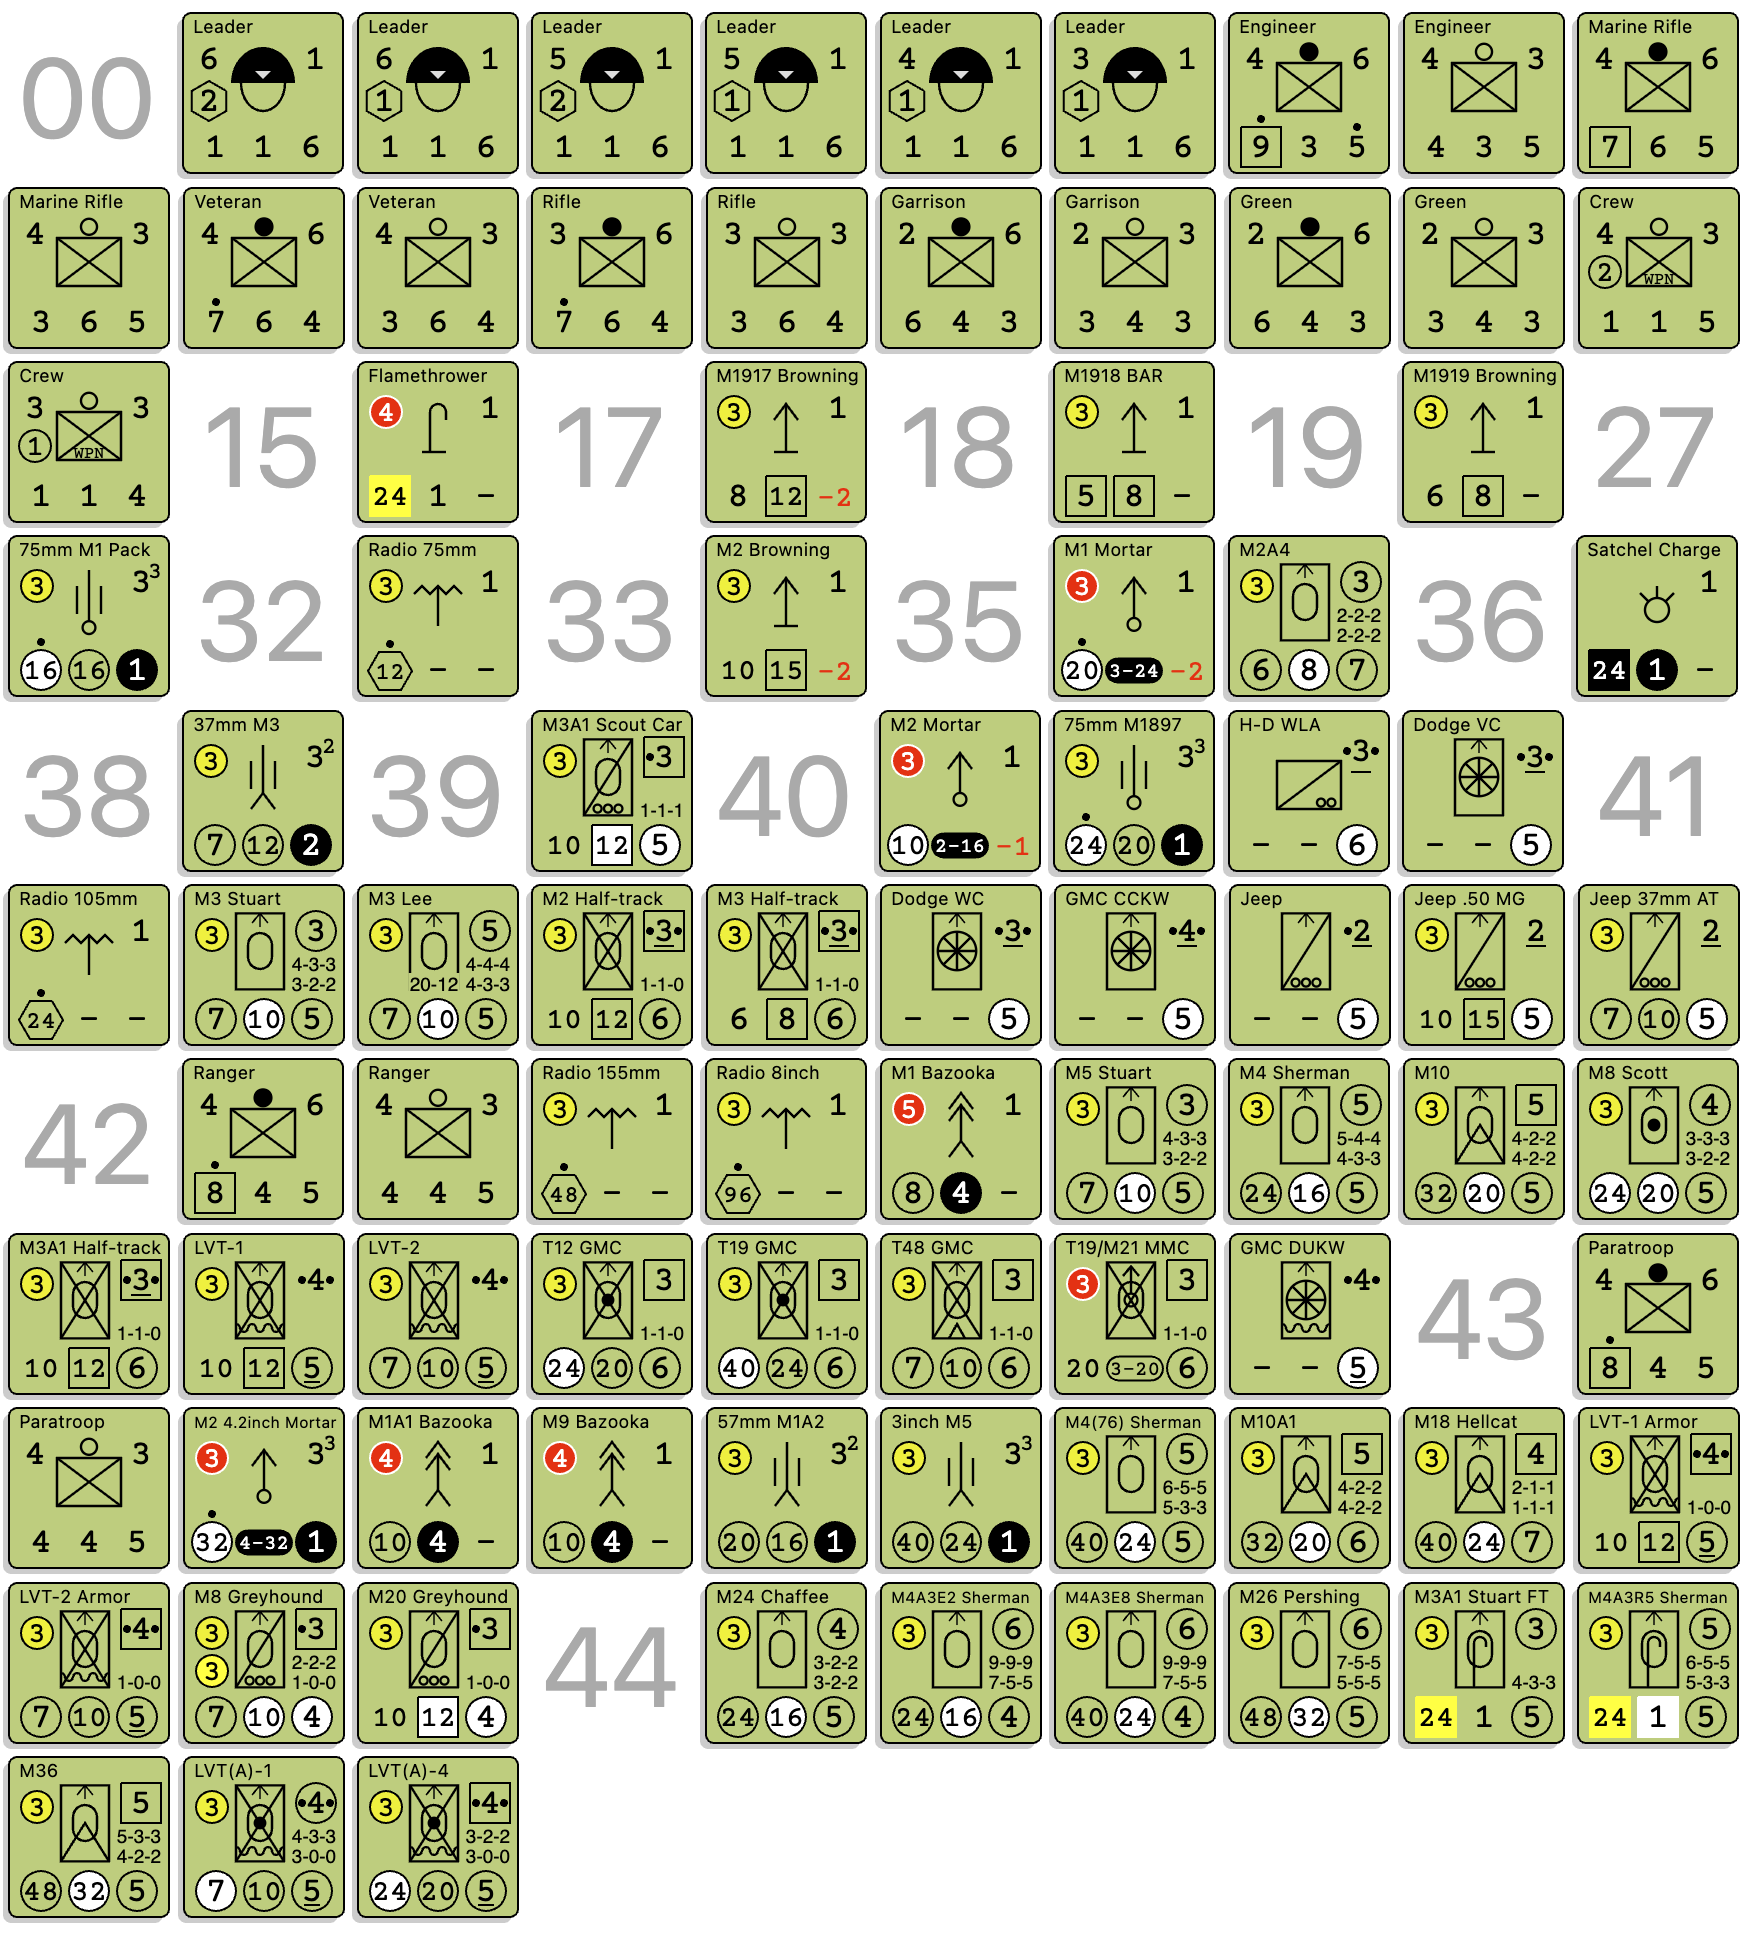
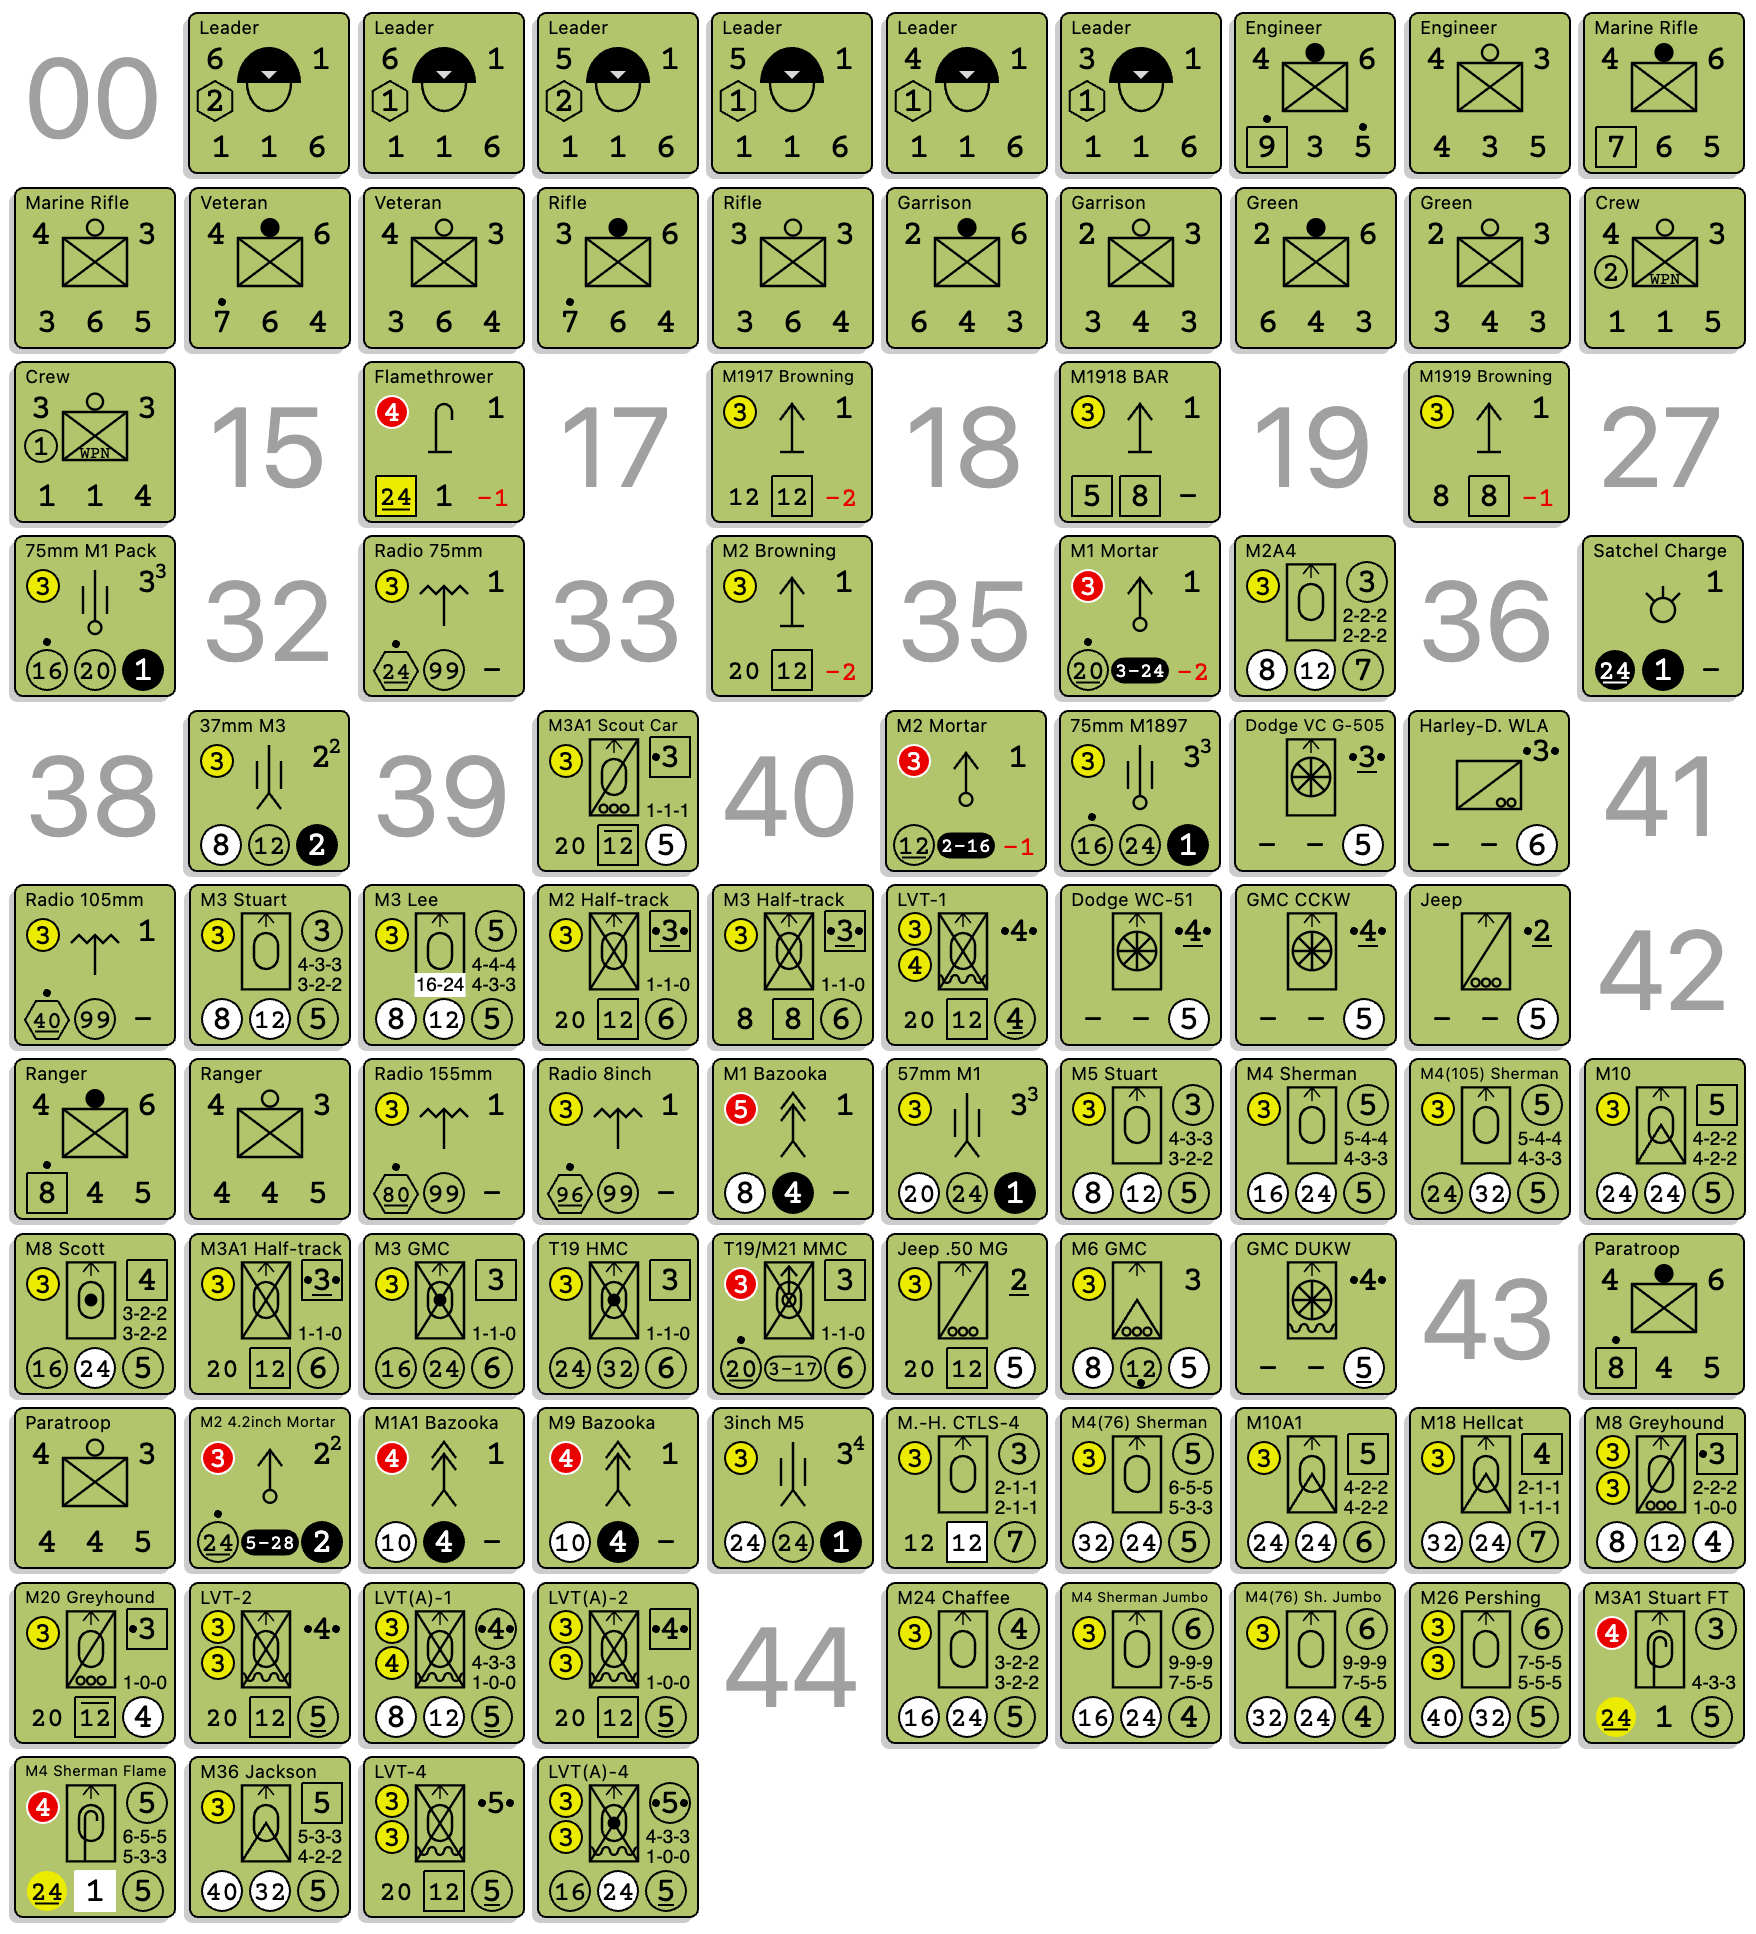
Fixes, updated example images

diff --git a/app/javascript/components/game/GameDisplay.tsx b/app/javascript/components/game/GameDisplay.tsx
@@ -341,6 +341,7 @@ export default function GameDisplay() {
     if (game.k?.gameState?.type === stateType.Deploy) {
       game.k.deployState.dir(d)
       game.k.gameState.finish()
+      game.k.deployState.needsDirection = false
     } else if (game.k?.gameState?.type === stateType.Fire) {
       game.k.fireState.rotate(d)
     } else if (game.k?.gameState?.type === stateType.Move) {

diff --git a/app/models/utility/scenario/units/definitions.rb b/app/models/utility/scenario/units/definitions.rb
@@ -210,23 +210,23 @@ module Utility
               "lahti_l_39": { fp: 3, rng: 6, mv: -2, tgt: true, at: true, fix: 18, sz: 1 },
               "type_97_ac": { fp: 3, rng: 4, mv: -2, tgt: true, at: true, fix: 18, sz: 1 },
               # Artillery
-              "radio_75mm": { fp: 24, rng: 99, mv: -1, smk: true, off: true, area: true, fix: 18, sz: 1 },
-              "radio_76mm": { fp: 24, rng: 99, mv: -1, smk: true, off: true, area: true, fix: 18, sz: 1 },
-              "radio_85mm": { fp: 32, rng: 99, mv: -1, smk: true, off: true, area: true, fix: 18, sz: 1 },
-              "radio_88mm": { fp: 32, rng: 99, mv: -1, smk: true, off: true, area: true, fix: 18, sz: 1 },
-              "radio_100mm": { fp: 40, rng: 99, mv: -1, smk: true, off: true, area: true, fix: 18, sz: 1 },
-              "radio_105mm": { fp: 40, rng: 99, mv: -1, smk: true, off: true, area: true, fix: 18, sz: 1 },
-              "radio_114mm": { fp: 48, rng: 99, mv: -1, smk: true, off: true, area: true, fix: 18, sz: 1 },
-              "radio_122mm": { fp: 48, rng: 99, mv: -1, smk: true, off: true, area: true, fix: 18, sz: 1 },
-              "radio_140mm": { fp: 64, rng: 99, mv: -1, smk: true, off: true, area: true, fix: 18, sz: 1 },
-              "radio_149mm": { fp: 64, rng: 99, mv: -1, smk: true, off: true, area: true, fix: 18, sz: 1 },
-              "radio_15cm": { fp: 64, rng: 99, mv: -1, smk: true, off: true, area: true, fix: 18, sz: 1 },
-              "radio_152mm": { fp: 64, rng: 99, mv: -1, smk: true, off: true, area: true, fix: 18, sz: 1 },
-              "radio_155mm": { fp: 80, rng: 99, mv: -1, smk: true, off: true, area: true, fix: 18, sz: 1 },
-              "radio_17cm": { fp: 80, rng: 99, mv: -1, smk: true, off: true, area: true, fix: 18, sz: 1 },
-              "radio_183mm": { fp: 96, rng: 99, mv: -1, smk: true, off: true, area: true, fix: 18, sz: 1 },
-              "radio_8inch": { fp: 96, rng: 99, mv: -1, smk: true, off: true, area: true, fix: 18, sz: 1 },
-              "radio_21cm": { fp: 96, rng: 99, mv: -1, smk: true, off: true, area: true, fix: 18, sz: 1 },
+              "radio_75mm": { fp: 24, rng: 99, mv: 0, smk: true, off: true, area: true, fix: 18, sz: 1 },
+              "radio_76mm": { fp: 24, rng: 99, mv: 0, smk: true, off: true, area: true, fix: 18, sz: 1 },
+              "radio_85mm": { fp: 32, rng: 99, mv: 0, smk: true, off: true, area: true, fix: 18, sz: 1 },
+              "radio_88mm": { fp: 32, rng: 99, mv: 0, smk: true, off: true, area: true, fix: 18, sz: 1 },
+              "radio_100mm": { fp: 40, rng: 99, mv: 0, smk: true, off: true, area: true, fix: 18, sz: 1 },
+              "radio_105mm": { fp: 40, rng: 99, mv: 0, smk: true, off: true, area: true, fix: 18, sz: 1 },
+              "radio_114mm": { fp: 48, rng: 99, mv: 0, smk: true, off: true, area: true, fix: 18, sz: 1 },
+              "radio_122mm": { fp: 48, rng: 99, mv: 0, smk: true, off: true, area: true, fix: 18, sz: 1 },
+              "radio_140mm": { fp: 64, rng: 99, mv: 0, smk: true, off: true, area: true, fix: 18, sz: 1 },
+              "radio_149mm": { fp: 64, rng: 99, mv: 0, smk: true, off: true, area: true, fix: 18, sz: 1 },
+              "radio_15cm": { fp: 64, rng: 99, mv: 0, smk: true, off: true, area: true, fix: 18, sz: 1 },
+              "radio_152mm": { fp: 64, rng: 99, mv: 0, smk: true, off: true, area: true, fix: 18, sz: 1 },
+              "radio_155mm": { fp: 80, rng: 99, mv: 0, smk: true, off: true, area: true, fix: 18, sz: 1 },
+              "radio_17cm": { fp: 80, rng: 99, mv: 0, smk: true, off: true, area: true, fix: 18, sz: 1 },
+              "radio_183mm": { fp: 96, rng: 99, mv: 0, smk: true, off: true, area: true, fix: 18, sz: 1 },
+              "radio_8inch": { fp: 96, rng: 99, mv: 0, smk: true, off: true, area: true, fix: 18, sz: 1 },
+              "radio_21cm": { fp: 96, rng: 99, mv: 0, smk: true, off: true, area: true, fix: 18, sz: 1 },
               # Field Guns
               "bofors_75mm": { fp: 16, rng: 20, mv: 1, tgt: true, fix: 18, gun: true, smk: true, crw: true, sz: 3, twsz: 3 },
               "75mm_m1897": { fp: 16, rng: 24, mv: 1, tgt: true, fix: 18, gun: true, smk: true, crw: true, sz: 3, twsz: 3 },

diff --git a/README.md b/README.md
@@ -31,15 +31,13 @@ sometimes.
 WIP:
 
 ![picture of the game screen](support/game.png)
-
-LOS:
-
 ![picture of the game screen](support/game2.png)
+![picture of the game screen](support/game3.png)
+![picture of the game screen](support/game4.png)
 
 Some counter debug list displays:
 
 ![all German counters](support/counters-ger.png)
-
 ![USA counters by year](support/counters-usa.png)
-
+![USA counters by year](support/counters.png)
 ![markers](support/markers.png)
